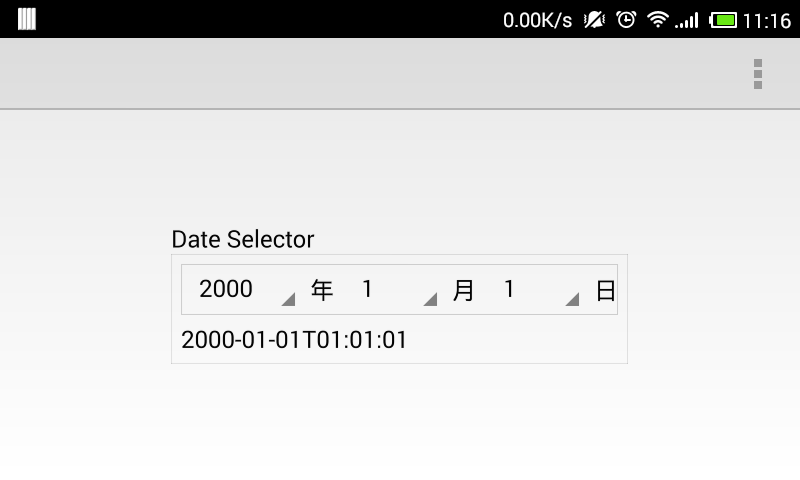
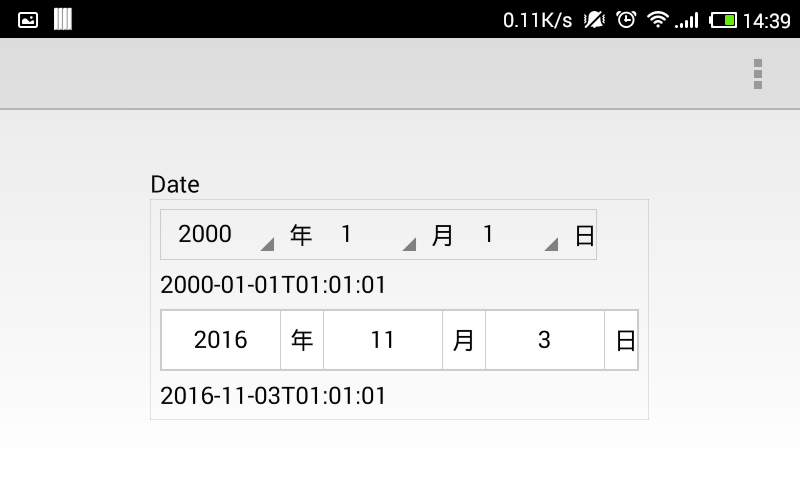
add a control DateTumbler

diff --git a/DateTumbler.qml b/DateTumbler.qml
@@ -1,0 +1,181 @@
+import QtQuick 2.4
+import QtQuick.Layouts 1.1
+import QtQuick.Controls.Private 1.0
+
+Control{
+
+    property int startYear: 2000
+    property int endYear: 2015
+
+
+    implicitHeight: rowLayout.height+2
+    implicitWidth: rowLayout.width+2
+
+    // I don't why the month value sub one will be success
+    property date date: new Date(
+                            Number(yearSelect.model[yearSelect.currentIndex]),
+                            Number(monthSelect.model[monthSelect.currentIndex])-1,
+                            Number(daySelect.model[daySelect.currentIndex]),
+                            1,1,1)
+
+    Rectangle{
+        anchors.fill: parent
+        color: "white"
+        border.color: "#ccc"
+        border.width: 2
+    }
+
+    RowLayout {
+        id: rowLayout
+        //spacing: 10
+        clip: true
+        anchors.centerIn: parent
+        height: 60 * __screen()
+
+        readonly property var leapYearMonthDaysCountList: [31,29,31,30,31,30,31,31,30,31,30,31]
+        readonly property var yearMonthDaysCountList: [31,28,31,30,31,30,31,31,30,31,30,31]
+
+        function __isLeapYear(year){ return ((year%4==0&&year%100!=0) ||year%400==0); }
+
+        function __getDaysCount(year, month){
+            var __year = Number(year);
+            var __month = Number(month);
+            return __isLeapYear(year) ? __get(1, leapYearMonthDaysCountList[__month-1]):
+                              __get(1, yearMonthDaysCountList[__month-1]);
+        }
+
+        // 1970 ~ 2100
+        function __get(from, to){
+            var result = [];
+            while(from <= to) {
+                result.push(from++);
+            }
+            return result;
+        }
+
+        function __screen(){
+            switch(Qt.platform.os)
+            {
+            case "android":
+            case "blackberry":
+            case "ios":
+                return 1.0;
+            case "linux":
+            case "osx":
+            case "unix":
+            case "windows":
+            case "wince":
+            default:
+                return 0.5
+            }
+        }
+
+        ListView {
+            id: yearSelect
+
+            Layout.fillHeight: true
+            Layout.minimumWidth: 100
+            Layout.preferredWidth: 120
+
+            model: rowLayout.__get(startYear, endYear)
+            currentIndex: 1
+
+            highlightRangeMode: ListView.StrictlyEnforceRange
+            snapMode: ListView.SnapOneItem;
+            boundsBehavior: ListView.StopAtBounds
+
+            delegate:
+                Rectangle{
+                color: "transparent"
+                border.color: "#ccc"
+                border.width: 1
+                width: yearSelect.width
+                height: yearSelect.height
+                Text{
+                    anchors.centerIn: parent
+                    font.family: "微软雅黑"
+                    text: yearSelect.model[index]
+                }
+            }
+        }
+
+        Text{
+            anchors.verticalCenter: parent.verticalCenter
+            text: qsTr("年")
+            font.family: "微软雅黑"
+        }
+
+        ListView {
+            id: monthSelect
+
+            Layout.fillHeight: true
+            Layout.minimumWidth: 100
+            Layout.preferredWidth: 120
+
+            model:rowLayout.__get(1, 12)
+            currentIndex: 1
+
+            highlightRangeMode: ListView.StrictlyEnforceRange
+            snapMode: ListView.SnapOneItem
+            boundsBehavior: ListView.StopAtBounds
+
+            delegate:
+                Rectangle{
+                color: "transparent"
+                border.color: "#ccc"
+                border.width: 1
+                width: monthSelect.width
+                height: monthSelect.height
+                Text{
+                    anchors.centerIn: parent
+                    font.family: "微软雅黑"
+                    text: monthSelect.model[index]
+                }
+            }
+            Component.onCompleted: {
+                console.log(monthSelect.model)
+            }
+        }
+
+        Text{
+            anchors.verticalCenter: parent.verticalCenter
+            text: qsTr("月")
+            font.family: "微软雅黑"
+        }
+
+        ListView {
+            id: daySelect
+
+            Layout.fillHeight: true
+            Layout.minimumWidth: 100
+            Layout.preferredWidth: 120
+
+            highlightRangeMode: ListView.StrictlyEnforceRange
+            snapMode: ListView.SnapOneItem
+            boundsBehavior: ListView.StopAtBounds
+
+            model: rowLayout.__getDaysCount(yearSelect.model[yearSelect.currentIndex],
+                                            monthSelect.model[monthSelect.currentIndex])
+            delegate:
+                Rectangle{
+                color: "transparent"
+                border.color: "#ccc"
+                border.width: 1
+                width: daySelect.width
+                height: daySelect.height
+                Text{
+                    anchors.centerIn: parent
+                    font.family: "微软雅黑"
+                    text: daySelect.model[index]
+                }
+            }
+        }
+
+        Text{
+            anchors.verticalCenter: parent.verticalCenter
+            text: qsTr("日")
+            font.family: "微软雅黑"
+        }
+    }
+}
+

diff --git a/main.qml b/main.qml
@@ -1,22 +1,54 @@
 import QtQuick 2.4
 import QtQuick.Controls 1.3
-
+import QtQuick.Window 2.2
+import QtQuick.Dialogs 1.2
+import QtQuick.Layouts 1.1
 
 ApplicationWindow {
-    id: window
-    title: qsTr("date selector");
-    width: 600
-    height: 400
+    title: qsTr("Hello World")
+    width: 640
+    height: 480
+    visible: true
 
-    DateSelector{
-        focus: true
-        startYear: 2000
-        endYear: 2016
-
-        anchors.centerIn: parent
-
-        onDateChanged: {
-            console.log(date);
+    menuBar: MenuBar {
+        Menu {
+            title: qsTr("&File")
+            MenuItem {
+                text: qsTr("E&xit")
+                onTriggered: Qt.quit();
+            }
         }
     }
+
+
+    GroupBox {
+        title: qsTr("Date")
+        anchors.centerIn: parent
+        Column{
+            spacing: 10
+            ColumnLayout {
+                spacing: 10
+                DateSelector{
+                    id: dateSelector
+                    startYear: 2000
+                    endYear: 2016
+                }
+                Text{
+                    text: dateSelector.date
+                }
+            }
+            ColumnLayout {
+                spacing: 10
+                DateTumbler{
+                    id: dateTumbler
+                    startYear: 2000
+                    endYear: 2016
+                }
+                Text{
+                    text: dateTumbler.date
+                }
+            }
+        }
+    }
+
 }
